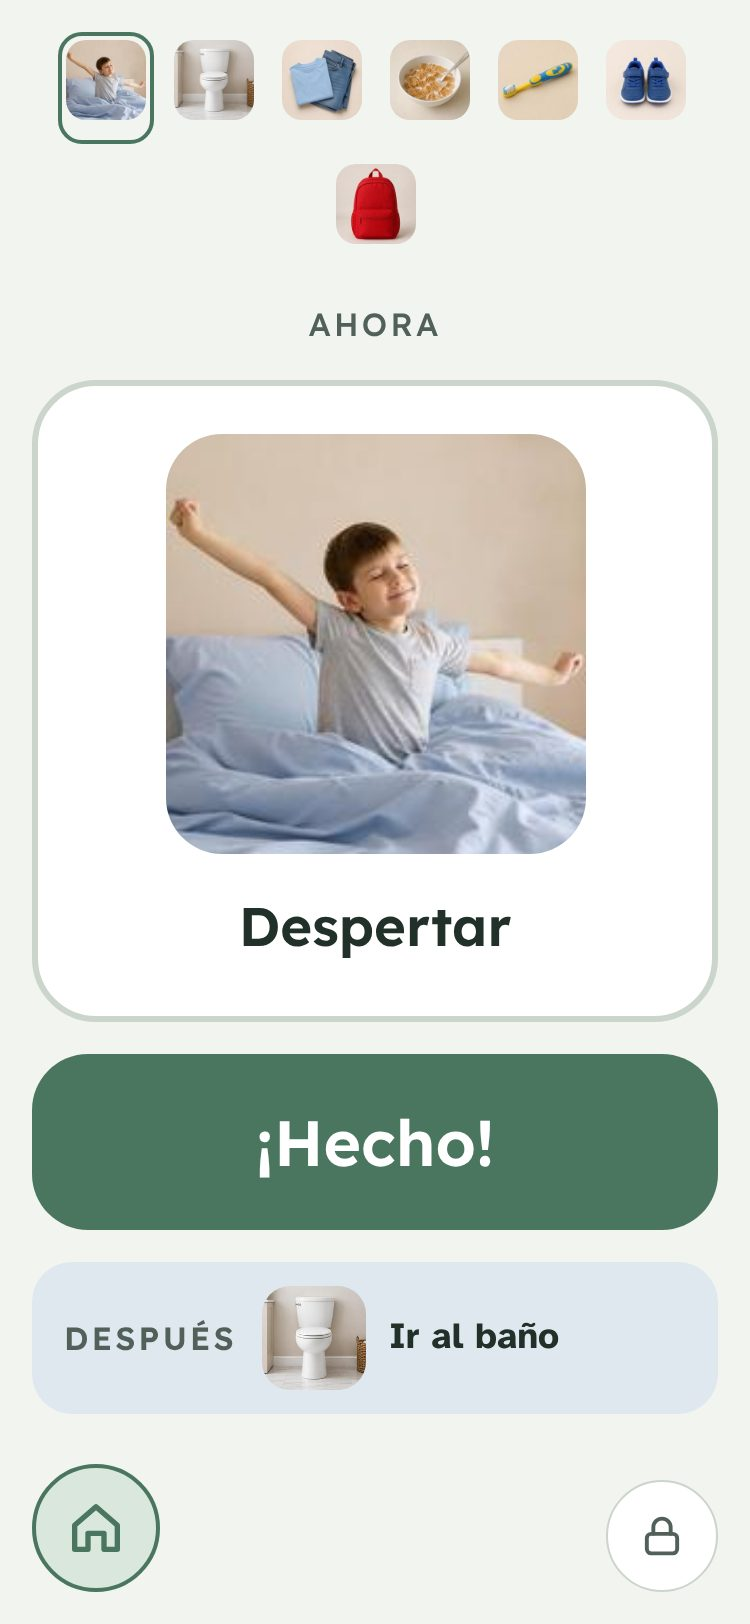
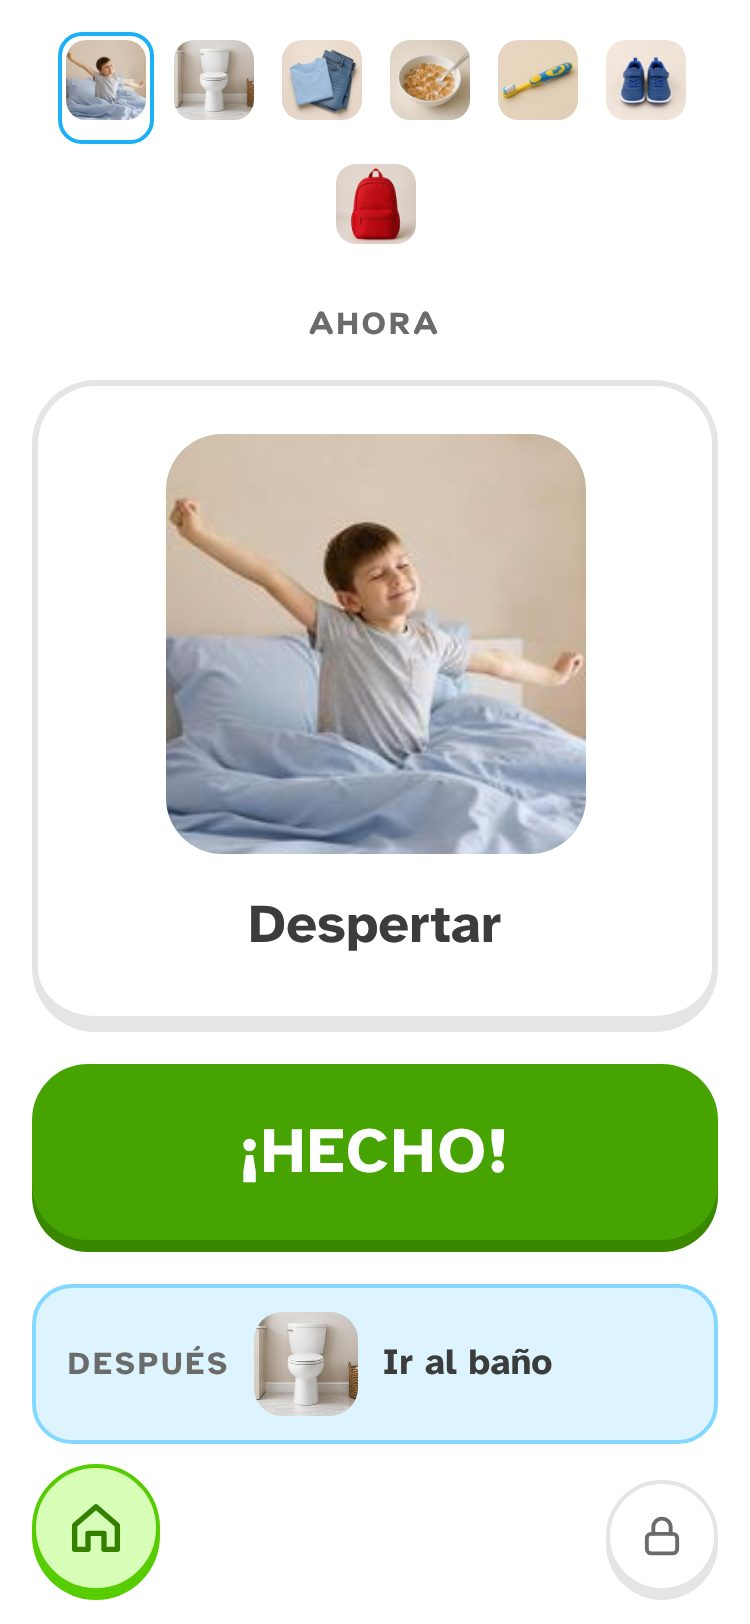
style: página de ventas, entrar y cuenta con el estilo verde
Tokens de la web al estilo nuevo, Nunito para títulos, botones verdes
con canto, capturas de la página de ventas rehechas con la app nueva.
FICHA-ARTE y ESTADO anotan el cambio.

Claude-Session: https://claude.ai/code/session_018zj21BywDVnsWt4SqQy2E1

diff --git a/web/components/landing/tokens.css b/web/components/landing/tokens.css
@@ -18,39 +18,44 @@
 
 :root {
   /* ── SUPERFICIES (3 niveles: base / elevada / hundida) ── */
-  --bg: #eef2eb;              /* ← reemplazar con FICHA-ARTE — fondo base (jamás #FFF/#000 puros) */
-  --surface: #fbfcf9;         /* ← reemplazar con FICHA-ARTE — secciones elevadas y cards */
-  --surface-2: #e6ece5;       /* ← reemplazar con FICHA-ARTE — hundido: wells, frames placeholder */
+  --bg: #ffffff;              /* ← reemplazar con FICHA-ARTE — fondo base (jamás #FFF/#000 puros) */
+  --surface: #f7f7f7;         /* ← reemplazar con FICHA-ARTE — secciones elevadas y cards */
+  --surface-2: #efefef;       /* ← reemplazar con FICHA-ARTE — hundido: wells, frames placeholder */
 
   /* ── TEXTO (casi-negro CON tinte, familia única de neutros) ── */
-  --text-primary: #22302a;    /* ← reemplazar con FICHA-ARTE */
-  --text-secondary: #4a5852;  /* ← reemplazar con FICHA-ARTE */
-  --text-tertiary: #52605a;   /* ← reemplazar con FICHA-ARTE — SIEMPRE ≥4.5:1 sobre --bg/--surface/--surface-2 (audit-conversion lo verifica; este placeholder da 5.0-5.8:1) */
+  --text-primary: #3c3c3c;    /* ← reemplazar con FICHA-ARTE */
+  --text-secondary: #4b4b4b;  /* ← reemplazar con FICHA-ARTE */
+  --text-tertiary: #636363;   /* ← reemplazar con FICHA-ARTE — SIEMPRE ≥4.5:1 sobre --bg/--surface/--surface-2 (audit-conversion lo verifica; este placeholder da 5.0-5.8:1) */
 
   /* ── MARCA ── */
-  --accent: #4a765f;          /* ← reemplazar con FICHA-ARTE — el acento del brand kit */
-  --accent-2: #4f6d86;        /* ← reemplazar con FICHA-ARTE — 2ª nota SOLO si la ficha la define;
+  --accent: #46a302;          /* ← reemplazar con FICHA-ARTE — el acento del brand kit */
+  --accent-2: #1477ab;        /* ← reemplazar con FICHA-ARTE — 2ª nota SOLO si la ficha la define;
                                  si no hay 2ª nota, repetir aquí el valor de --accent */
 
-  --accent-on-dark: #8cc0a3;  /* acento sobre la sección oscura del CTA final (≥4.5:1 sobre --text-primary) */
+  --accent-on-dark: #8ee04a;  /* acento sobre la sección oscura del CTA final (≥4.5:1 sobre --text-primary) */
 
   /* ── SEMÁNTICOS (FICHA-ARTE) ── */
-  --error: #9a4a3e;           /* error: texto y borde de un campo o acción que falló (embudo) */
+  --error: #c62828;           /* error: texto y borde de un campo o acción que falló (embudo) */
 
   /* ── FORMA (radios del brand kit — UNO por rol, toda la página) ── */
-  --radius-card: 18px;        /* ← reemplazar con FICHA-ARTE — cards, frames, secciones */
-  --radius-button: 14px;      /* ← reemplazar con FICHA-ARTE — botones y chips de ícono */
+  --radius-card: 20px;        /* ← reemplazar con FICHA-ARTE — cards, frames, secciones */
+  --radius-button: 16px;      /* ← reemplazar con FICHA-ARTE — botones y chips de ícono */
 
   /* ── TIPOGRAFÍA (2 familias de la ficha — jamás Inter/Roboto/system-ui de marca) ── */
-  --font-display: 'Lexend', 'Atkinson Hyperlegible', sans-serif;      /* ← reemplazar con FICHA-ARTE (display) */
+  --font-display: 'Nunito', 'Atkinson Hyperlegible', sans-serif;      /* ← reemplazar con FICHA-ARTE (display) */
   --font-body: 'Atkinson Hyperlegible', Verdana, sans-serif;    /* ← reemplazar con FICHA-ARTE (body) */
 
   /* ── SOMBRAS con el TINTE del neutro de marca (49 Parte 2c — nunca negro puro) ── */
-  --shadow-1: 0 1px 2px rgb(34 48 42 / 0.06);          /* ← reemplazar el tinte RGB con FICHA-ARTE */
-  --shadow-2: 0 12px 32px -12px rgb(34 48 42 / 0.16);  /* ← reemplazar el tinte RGB con FICHA-ARTE */
+  --shadow-1: 0 4px 0 #e5e5e5;          /* ← reemplazar el tinte RGB con FICHA-ARTE */
+  --shadow-2: 0 4px 0 #e5e5e5, 0 0 0 2px #e5e5e5;  /* ← reemplazar el tinte RGB con FICHA-ARTE */
 
   /* ── DERIVADOS (no se tocan: se recalculan solos desde --accent) ── */
   --chip-bg: color-mix(in oklab, var(--accent) 10%, transparent);
+
+  /* ── ESTILO "FICHA DE JUGUETE" (2026-11-03) ── */
+  --accent-text: #357f00;     /* verde cuando es texto chico (AA 5.0:1 sobre blanco) */
+  --accent-edge: #3a8700;     /* canto inferior del botón verde */
+  --line-toy: #e5e5e5;        /* borde gris de 2px de tarjetas y botones claros */
 }
 
 /* ============================================================================

diff --git a/web/app/global-error.tsx b/web/app/global-error.tsx
@@ -4,15 +4,15 @@
 export default function ErrorGlobal({ reset }: { error: Error & { digest?: string }; reset: () => void }) {
   return (
     <html lang="es">
-      <body style={{ margin: 0, minHeight: '100dvh', display: 'grid', placeItems: 'center', background: '#EEF2EB', color: '#22302A', fontFamily: 'Verdana, sans-serif' }}>
+      <body style={{ margin: 0, minHeight: '100dvh', display: 'grid', placeItems: 'center', background: '#FFFFFF', color: '#3C3C3C', fontFamily: 'Verdana, sans-serif' }}>
         <main style={{ maxWidth: 480, padding: 24, display: 'flex', flexDirection: 'column', gap: 16 }}>
           <h1 style={{ fontSize: 28, margin: 0 }}>Algo no cargó bien</h1>
           <p style={{ margin: 0, lineHeight: 1.6 }}>Fue un problema nuestro, no tuyo. Prueba otra vez en unos segundos.</p>
-          <button type="button" onClick={reset} style={{ minHeight: 48, borderRadius: 14, border: 0, background: '#4A765F', color: '#fff', fontSize: 17, fontWeight: 700 }}>
+          <button type="button" onClick={reset} style={{ minHeight: 48, borderRadius: 16, border: 0, background: '#46A302', color: '#fff', fontSize: 19, fontWeight: 700, boxShadow: '0 4px 0 #3A8700' }}>
             Probar otra vez
           </button>
           {/* Recarga completa a propósito: si falló el marco de la página, la navegación interna puede no servir. */}
-          <button type="button" onClick={() => window.location.assign('/')} style={{ minHeight: 48, border: 0, background: 'none', color: '#4A765F', fontSize: 17, textDecoration: 'underline' }}>
+          <button type="button" onClick={() => window.location.assign('/')} style={{ minHeight: 48, border: 0, background: 'none', color: '#357F00', fontSize: 17, textDecoration: 'underline' }}>
             Ir al inicio
           </button>
         </main>

diff --git a/web/app/globals.css b/web/app/globals.css
@@ -2,10 +2,23 @@
 @import "../components/landing/tokens.css";
 
 :root {
-  --font-display: var(--font-lexend), 'Atkinson Hyperlegible', sans-serif;
+  --font-display: var(--font-nunito), 'Atkinson Hyperlegible', sans-serif;
   --font-body: var(--font-atkinson), Verdana, sans-serif;
 }
 
-.legal h2 { font-family: var(--font-display); font-size: 21px; font-weight: 600; margin-top: 16px; }
+.legal h2 { font-family: var(--font-display); font-size: 21px; font-weight: 800; margin-top: 16px; }
 .legal ul { list-style: disc; padding-left: 1.3em; display: flex; flex-direction: column; gap: 6px; }
-.legal a { color: var(--accent); text-decoration: underline; text-underline-offset: 3px; }
+.legal a { color: var(--accent-text); text-decoration: underline; text-underline-offset: 3px; }
+
+/* ── Estilo "ficha de juguete" (pedido de la dueña, 2026-11-03) ──
+   Va fuera de las capas de Tailwind a propósito: así gana a las utilidades sin tocar cada .tsx.
+   1) El verde vivo solo rellena; cuando el verde es TEXTO usa --accent-text (contraste AA).
+   2) Los botones y enlaces-botón verdes llevan canto inferior y se hunden al tocarlos. */
+.text-\[var\(--accent\)\] { color: var(--accent-text); }
+h1, h2, h3 { font-family: var(--font-display); font-weight: 800; letter-spacing: -0.01em; }
+:is(a, button)[class*="bg-[var(--accent)]"] {
+  font-family: var(--font-display); font-weight: 800; letter-spacing: 0.02em;
+  box-shadow: 0 4px 0 var(--accent-edge);
+  transition: transform .12s ease-out, box-shadow .12s ease-out;
+}
+:is(a, button)[class*="bg-[var(--accent)]"]:active { transform: translateY(4px); box-shadow: 0 0 0 var(--accent-edge); }

diff --git a/web/app/layout.tsx b/web/app/layout.tsx
@@ -1,8 +1,8 @@
 import type { Metadata, Viewport } from "next";
-import { Lexend, Atkinson_Hyperlegible } from "next/font/google";
+import { Nunito, Atkinson_Hyperlegible } from "next/font/google";
 import "./globals.css";
 
-const lexend = Lexend({ variable: "--font-lexend", subsets: ["latin"], weight: ["500", "600", "700"] });
+const nunito = Nunito({ variable: "--font-nunito", subsets: ["latin", "latin-ext"], weight: ["700", "800", "900"] });
 const atkinson = Atkinson_Hyperlegible({ variable: "--font-atkinson", subsets: ["latin"], weight: ["400", "700"] });
 
 export const metadata: Metadata = {
@@ -11,11 +11,11 @@ export const metadata: Metadata = {
     "Rutinas con fotos, calma en las crisis y un informe para la terapeuta. Para mamás de niños autistas de 2 a 12 años. Tus datos no salen del teléfono.",
 };
 
-export const viewport: Viewport = { themeColor: "#4A765F" };
+export const viewport: Viewport = { themeColor: "#FFFFFF" };
 
 export default function RootLayout({ children }: LayoutProps<"/">) {
   return (
-    <html lang="es" className={`${lexend.variable} ${atkinson.variable} antialiased`}>
+    <html lang="es" className={`${nunito.variable} ${atkinson.variable} antialiased`}>
       <body className="min-h-dvh">{children}</body>
     </html>
   );

diff --git a/ESTADO.md b/ESTADO.md
@@ -4,6 +4,13 @@
 ⏸ CHECKPOINT (2026-10-29) — Paso A y el trabajo local de Codex (carpeta de la dueña, sin commit allí) unidos en traspaso; 101 pruebas ✓, typecheck ✓, build ✓. Sigue el Paso B: base de datos, URLs del dominio pasoapaso.hadaapps.com, compra de prueba, publicar con el visto bueno de la dueña. Traspaso de Codex: docs/traspaso/PASO-A-PASO-TRASPASO-A-CLAUDE-2026-10-28.md.
 ⏸ CHECKPOINT — Correos locales preparados; cola/programación instaladas APAGADAS; reparación Hotmart aplicada y8fixtures200, sin compra→correo→acceso real verificado. SMTP OTP6 probado por Giselle. Vault paso_a_paso_correos_cron guardado según captura27-10; sustituciones de secretos confirmadas por dueña, sin comparación de valores. Código nuevo no publicado. Panel de4expertos SOLO diagnóstico completado27-10: REPORTE-PANEL.md y4informes en docs/revisiones/panel-2026-10-27. Copy12/20; arte landing15/20. Notas de especialidad:copy6,diseño6,conversión5,retención4,negocio4 sobre10. Aprobación posterior: acceso poscompra, guardado duradero y promesas honestas; correcciones y pruebas locales cerradas en docs/revisiones/correcciones-2026-10-27/CIERRE.md; entrega real/publicación pendientes y campañas apagadas. Traspaso actualizado: docs/traspaso/PASO-A-PASO-TRASPASO-A-CLAUDE-2026-10-28.md. Auditoría pre-lanzamiento autorizada con correcciones locales: INCOMPLETA, tres auditores interrumpidos por límite de uso; npm audit falló por DNS, no prueba limpia. Sin certificado nuevo, publicación ni compra real. Evidencia válida: docs/revisiones/panel-2026-10-27/landing-completa-lenta-375.png y LEEME.md. Las secciones históricas no sustituyen estas actualizaciones.
 
+## Rediseño "ficha de juguete" (2026-11-03, rama rediseno-estilo-verde, SIN publicar)
+- Pedido de la dueña: pasar la app al estilo verde tipo Duolingo (eligió entre 3 vistas). Detalle en FICHA-ARTE.md (nota de arriba).
+- Hecho: app/styles.css (tokens + componentes, claro y oscuro), Nunito en app/fonts, caché sw v20; web: tokens.css, Nunito en layout, botones verdes con canto (globals.css), capturas de la landing rehechas (public/capturas).
+- Sin tocar a propósito: panel de la dueña (app/admin/panel.css) y correos (lib/correos) — siguen en salvia.
+- Verificado: capturas 375px claro/oscuro de inicio, preparar, diario, guía, más, espacio del niño, paso de rutina; landing, onboarding, paywall, entrar, cuenta. Sin revisor-visual (cambio de piel sobre pantallas ya aprobadas).
+- Para publicar: la dueña dice "publícalo" → merge a main (se publica solo).
+
 ## Panel independiente — 27-10 y correcciones aprobadas después
 - Aprobado: «evalúa todo» y retomar panel. Ejecutado:4expertos independientes, captura375 de landing lenta/onboarding/precio/core,3recapturas estables y reporte docs/revisiones/panel-2026-10-27/REPORTE-PANEL.md. Sin cambiar código, precio, cuentas, envíos o despliegues.
 - Expertos Copy/Arte/Conversión/Negocio:copy6/6/6/5,diseño6/6/7/7,conversión5/5/5/5,retención5/5/4/5,negocio4/5/4/4 (/10). Son juicios, no métricas de clientes. Copy12/20; arte por pantalla, no promedio de certificación.

diff --git a/FICHA-ARTE.md b/FICHA-ARTE.md
@@ -1,5 +1,13 @@
 # FICHA DE DIRECCIÓN DE ARTE — Paso a Paso
 
+> ⚠ CAMBIO APROBADO POR LA DUEÑA (2026-11-03): estilo "ficha de juguete" (referencia: estilo Duolingo de styles.refero.design, elegida entre 3 opciones renderizadas). Manda sobre lo de abajo donde choque.
+> - Fondo blanco #FFFFFF · superficie 2 #F7F7F7 · borde #E5E5E5 (2px) · texto #3C3C3C / #6B6B6B
+> - Verde de acción #46A302 (relleno, texto blanco ≥19px bold) con canto #3A8700 · verde como texto chico #357F00 · azul ayuda/foco #1477AB (texto) y #1CB0F6 (decoración), lavado #DDF4FF
+> - Categorías vivas: verde #58CC02 · azul #1CB0F6 · naranja #FF9600 · rosa #FF86D0 · violeta #CE82FF · amarillo #FFC800 (lavados claros)
+> - Títulos Nunito 800-900 · texto sigue en Atkinson Hyperlegible (legibilidad)
+> - Botones y tarjetas tocables con canto inferior plano (0 4px 0) que se hunde al tocar · radios 16 (botón) / 20 (tarjeta)
+> - Sin mascota ni rachas con fuego (no presionar a familias en crisis); modo calma sigue apagando saturación y movimiento.
+
 ## Referencia del usuario (CONTRATO)
 - ¿Hay imagen de referencia del usuario?: NO como imagen externa. La referencia es la APP YA CONSTRUIDA y aprobada (app/styles.css): la landing EXTIENDE ese sistema, no lo reinterpreta.
 - Prohibiciones anti-IA que levanta: ninguna.
